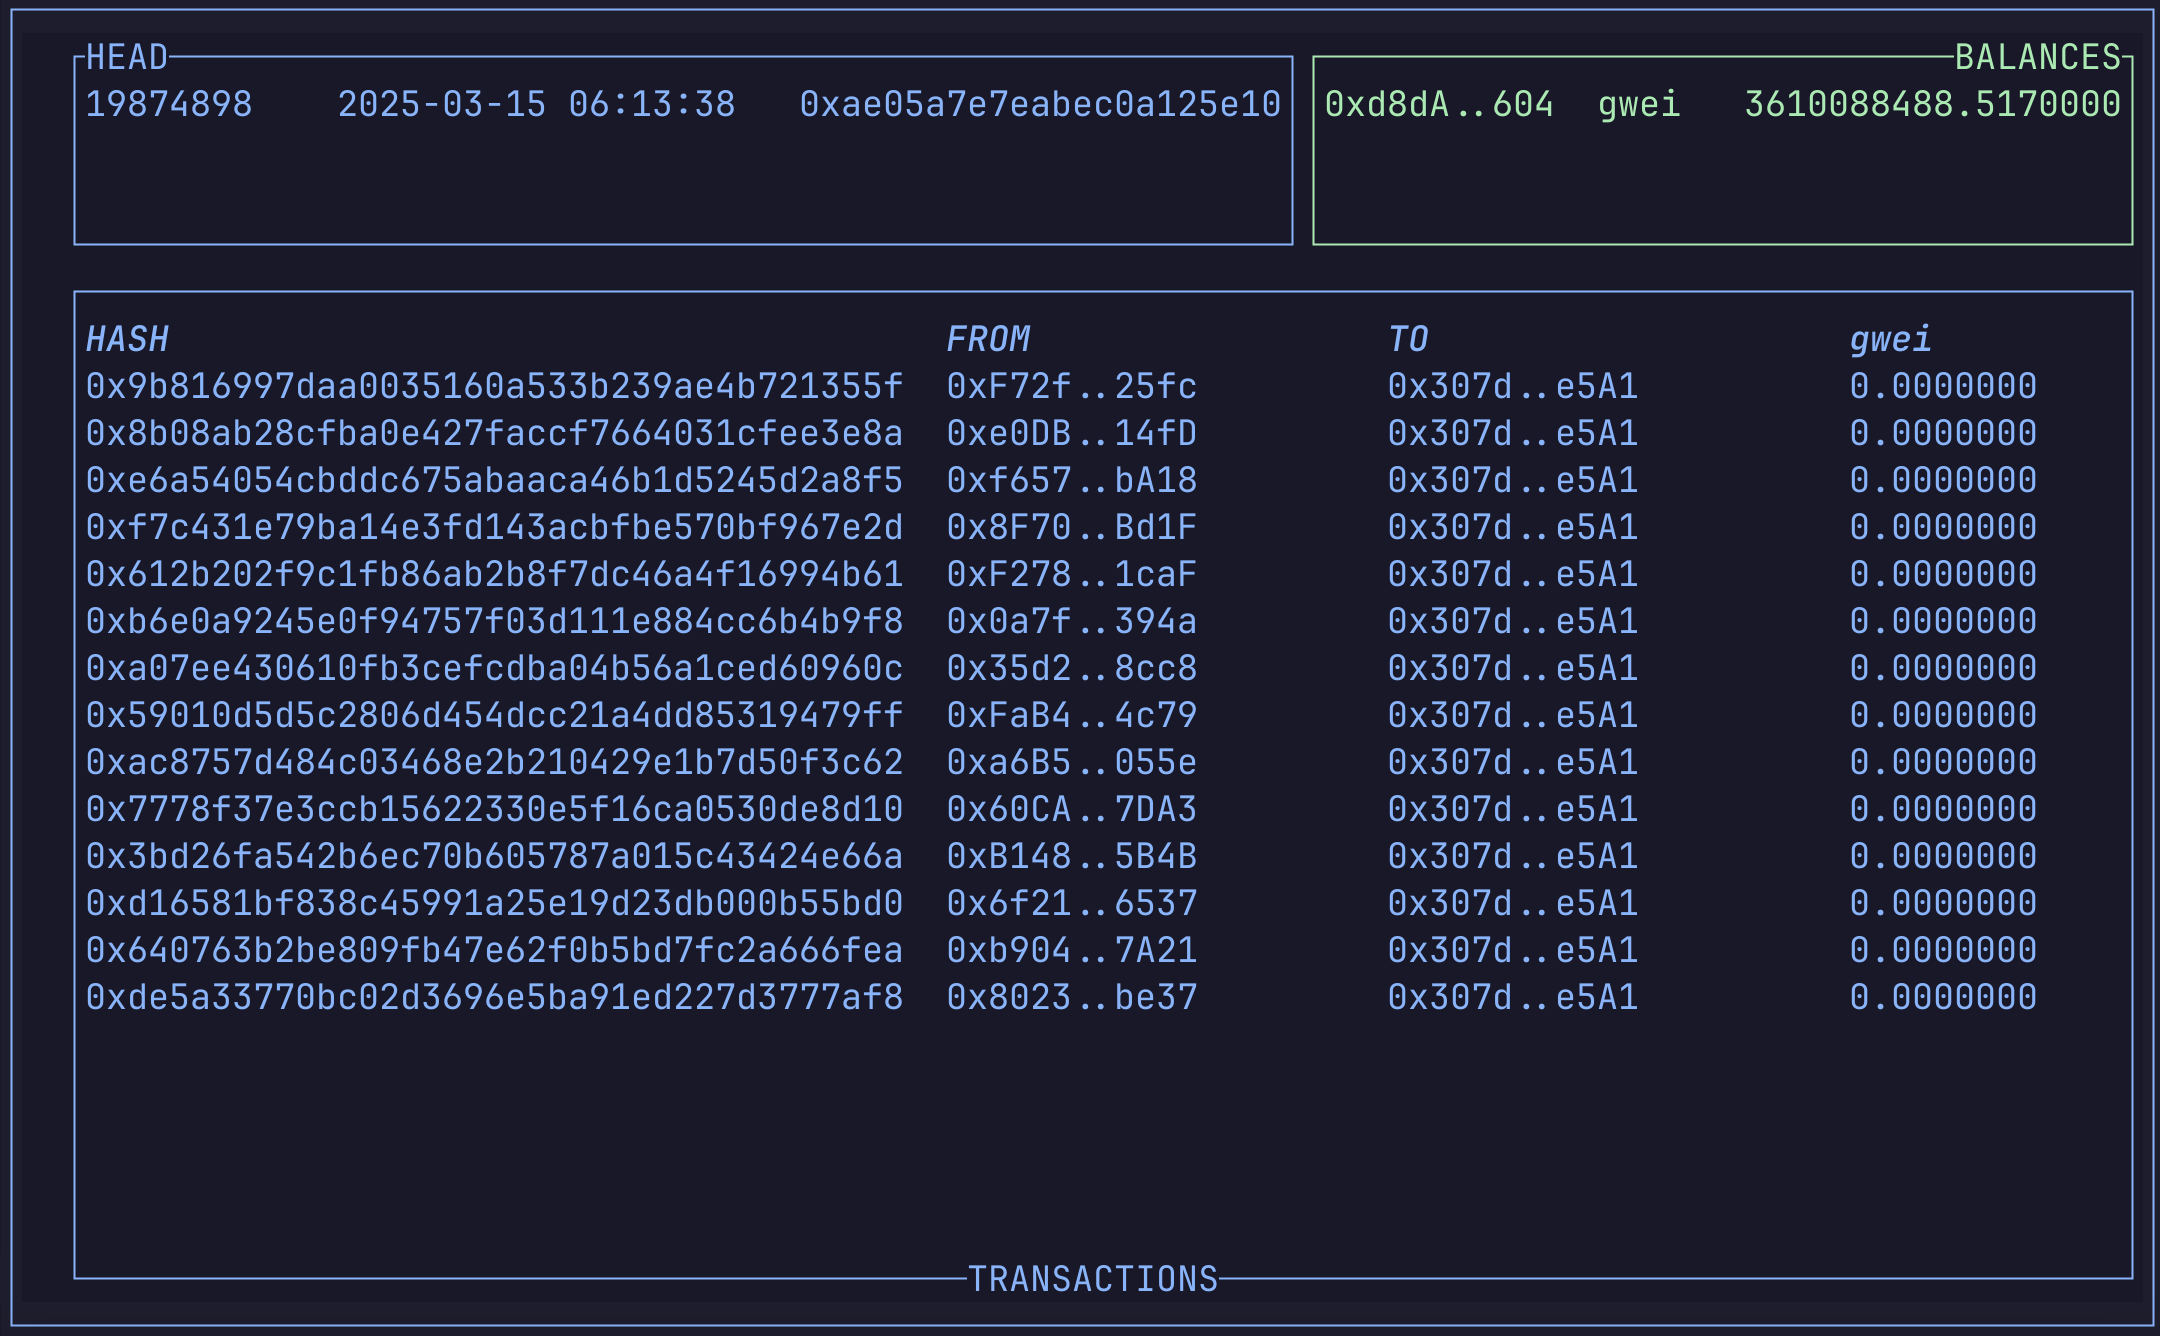
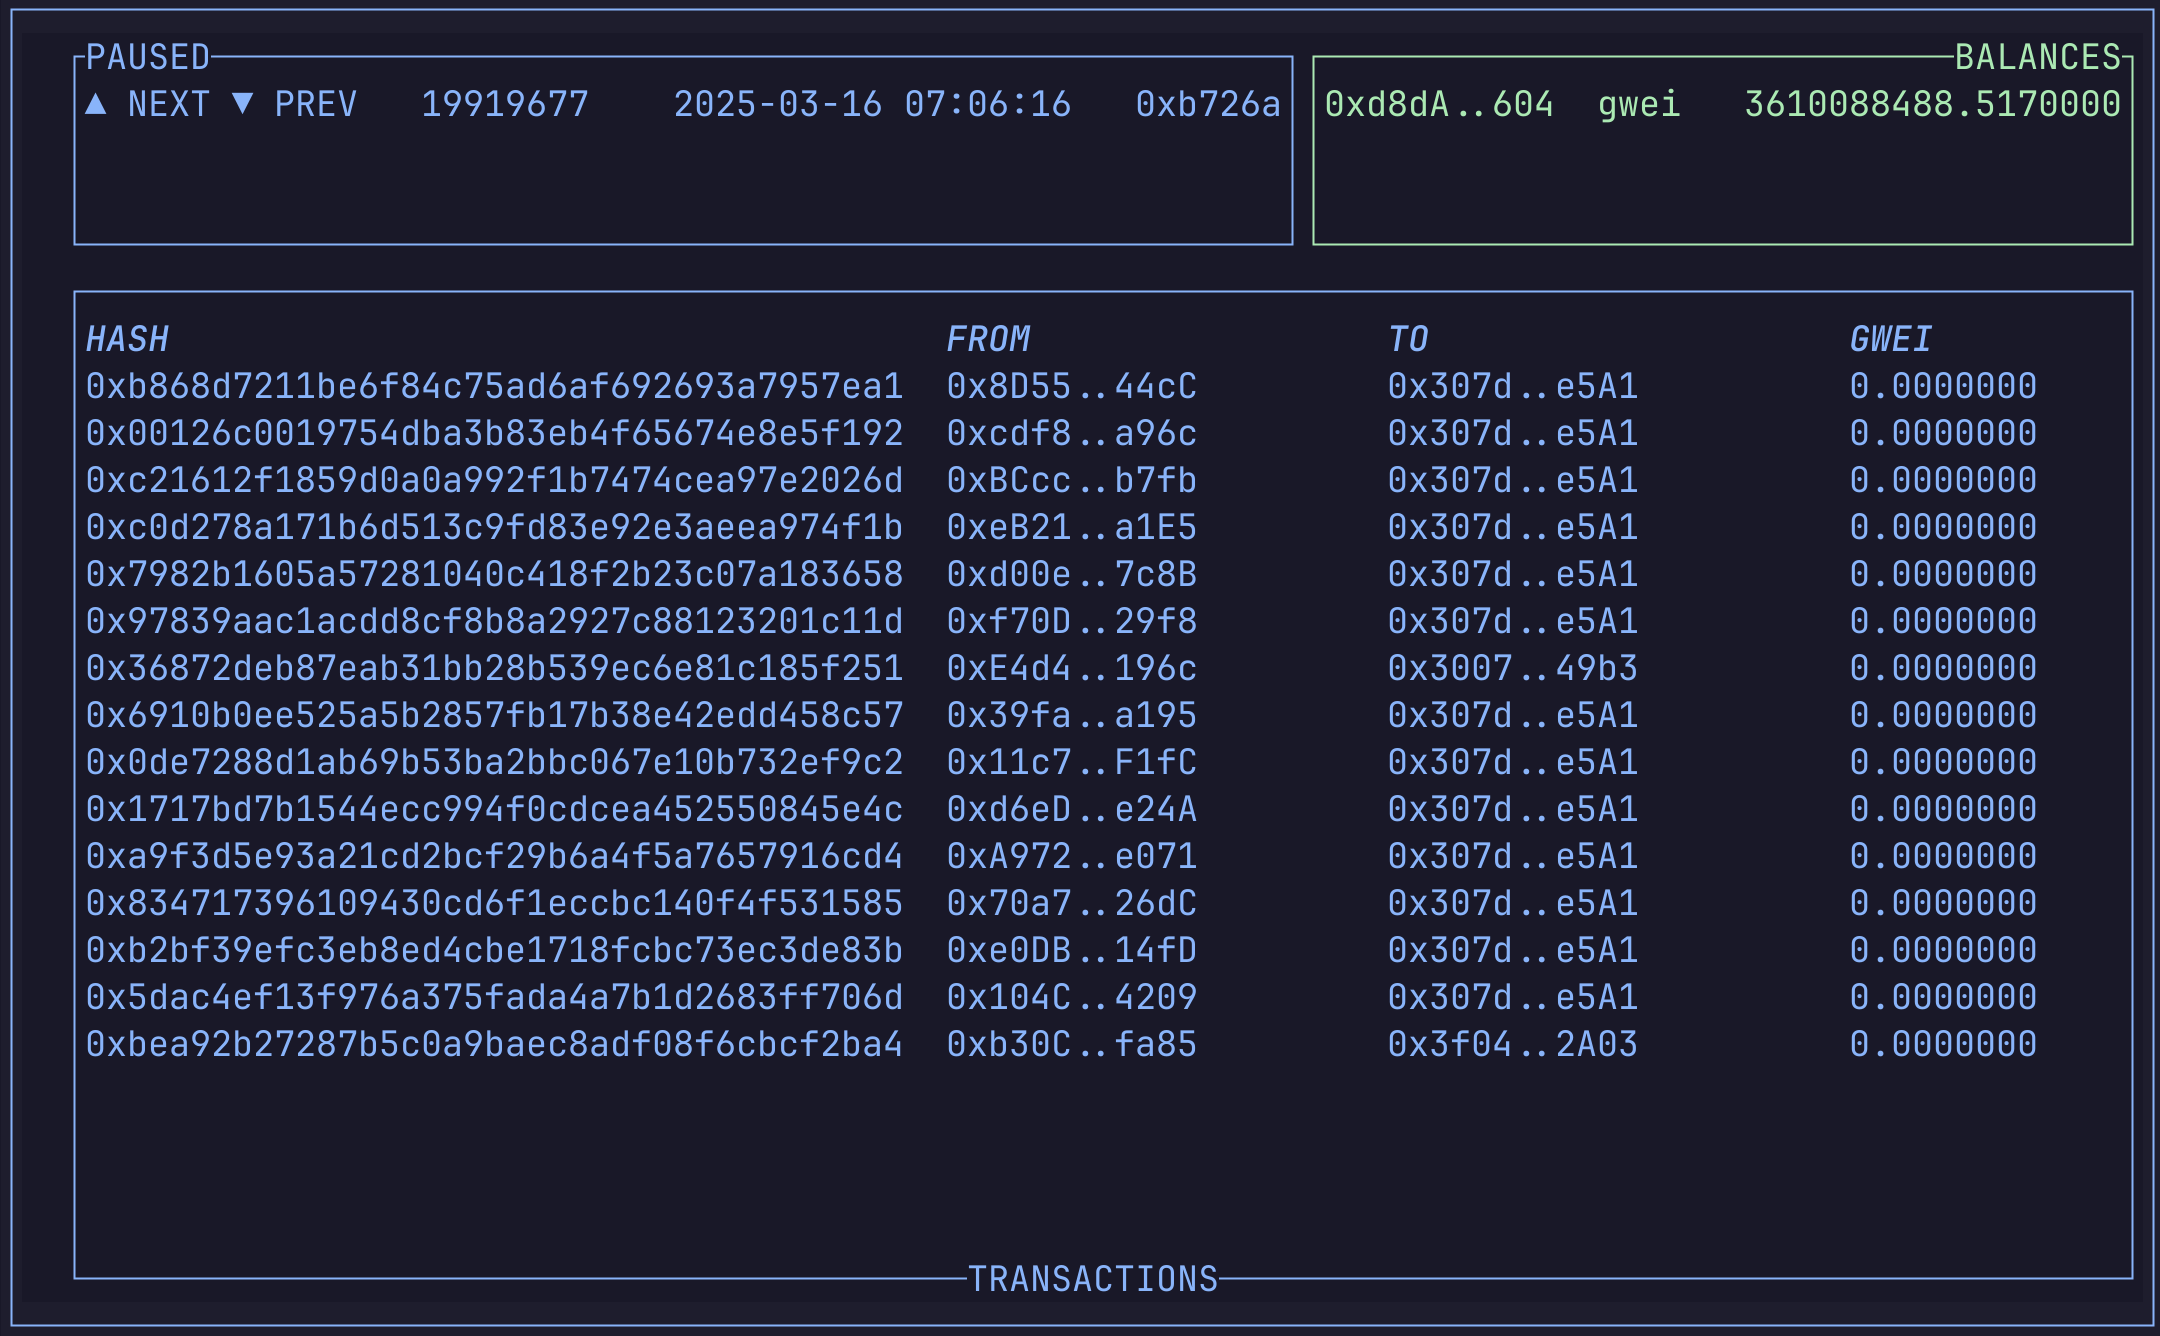
Update readme and image

diff --git a/README.md b/README.md
@@ -24,6 +24,15 @@ addresses:
 EOF
 export BLOCKRS_CONFIG=/tmp/
 blockrs https://rpc.flashbots.net
+
+### User Input
+
+The app will run in a mode which follows the HEAD of the chain by default.
+
+If you hit `j/k/Up/Down` at any time, the app will stop following head and allow you to observe any previously-processed block.
+
+To re-enter follow mode, hit `f/Space/Enter`.
+
 ```
 
 ## Roadmap
